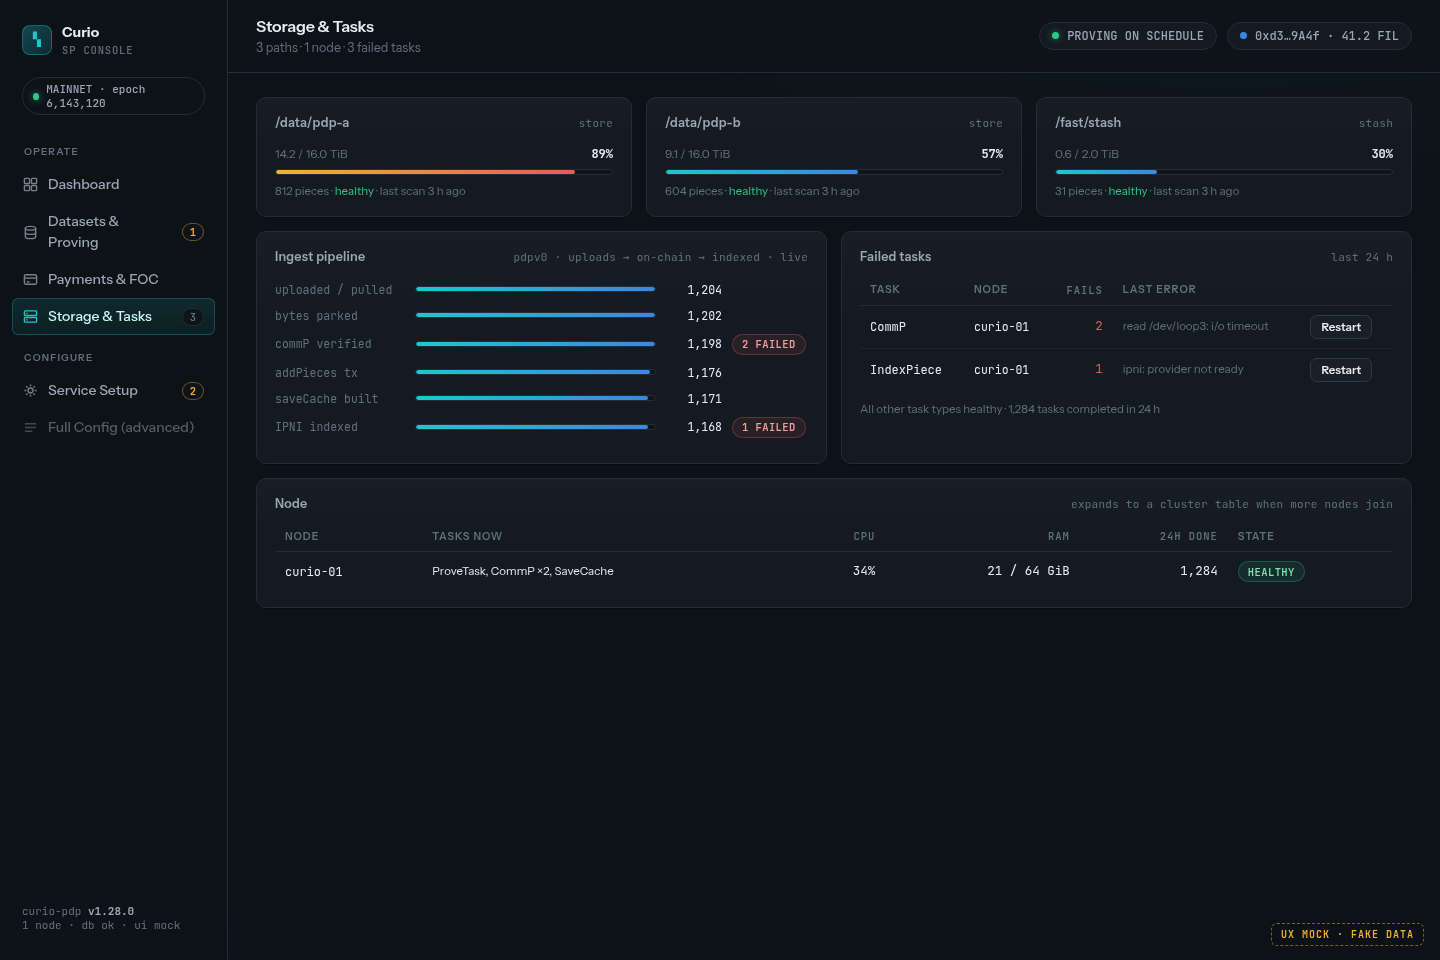
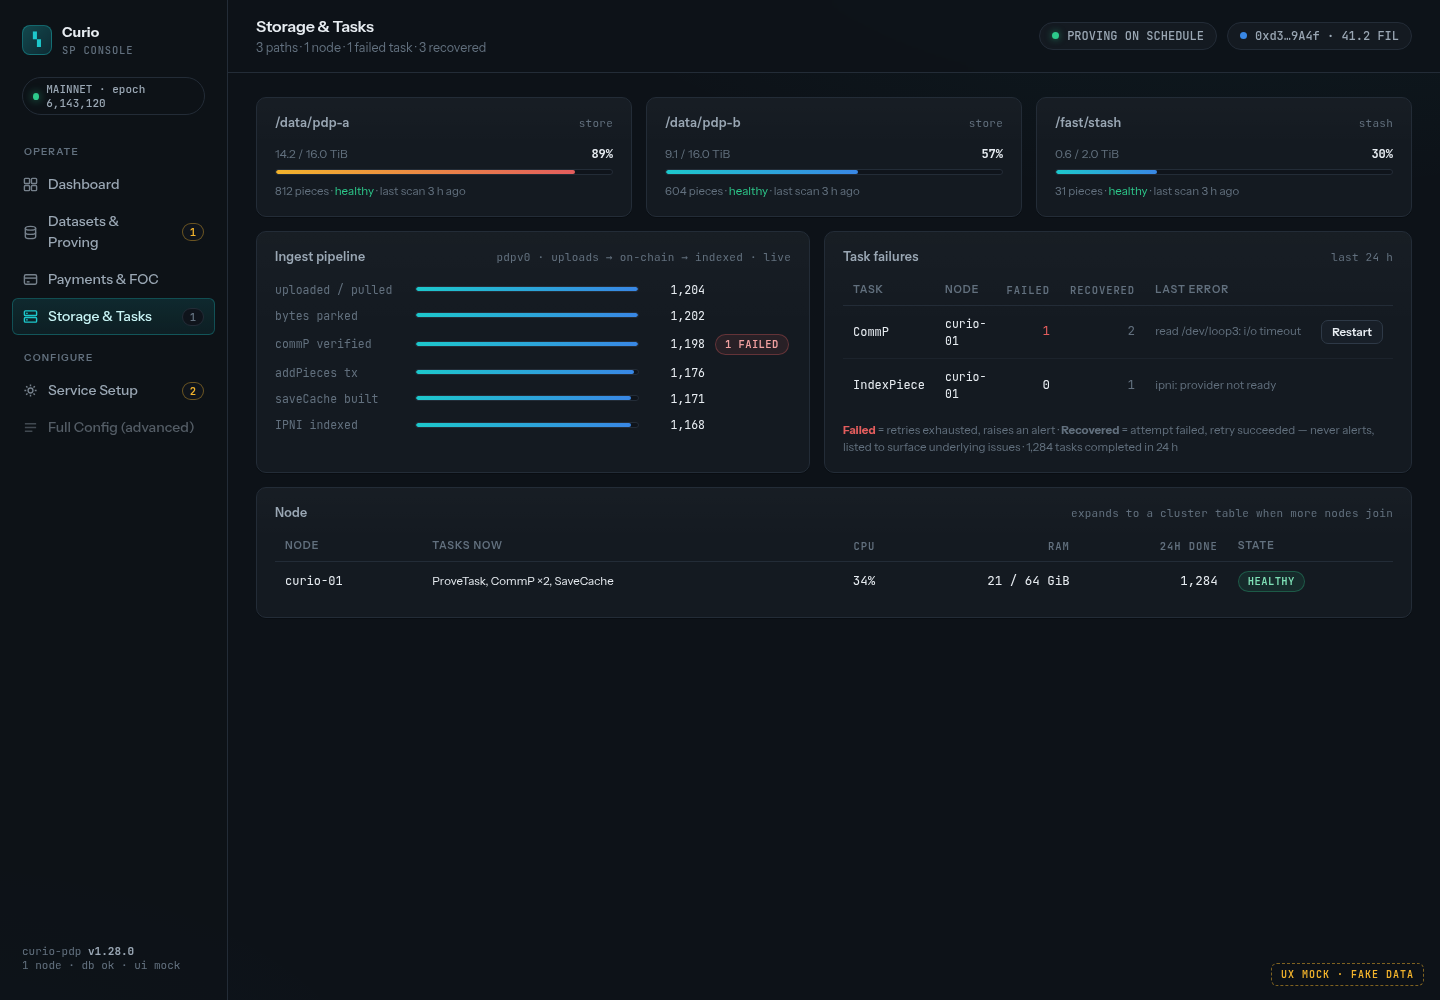
Open-issues list on dashboard + Failed/Recovered task split
Alerts follow the upstream alert lifecycle (alert_conditions /
alert_history.kind): the dashboard lists final failures and active
conditions only, with mutes; attempts that recover on retry move to
a Recovered column on Storage & Tasks.

diff --git a/mock/index.html b/mock/index.html
@@ -274,7 +274,7 @@ code.k{background:var(--inset); border:1px solid var(--line); border-radius:4px;
         Payments &amp; FOC</a>
       <a href="#/storage" data-page="storage">
         <svg viewBox="0 0 16 16" fill="none" stroke="currentColor" stroke-width="1.5"><rect x="1.5" y="2" width="13" height="5" rx="1"/><rect x="1.5" y="9" width="13" height="5" rx="1"/><circle cx="4.2" cy="4.5" r=".9" fill="currentColor" stroke="none"/><circle cx="4.2" cy="11.5" r=".9" fill="currentColor" stroke="none"/></svg>
-        Storage &amp; Tasks <span class="cnt">3</span></a>
+        Storage &amp; Tasks <span class="cnt">1</span></a>
     </nav>
 
     <div class="ngroup">Configure</div>
@@ -304,9 +304,9 @@ code.k{background:var(--inset); border:1px solid var(--line); border-radius:4px;
 
     <!-- ================= DASHBOARD ================= -->
     <section class="page" id="pg-dashboard">
-      <div class="banner" id="okbanner">
+      <div class="banner warn" id="okbanner">
         <span class="dot"></span>
-        <div><b>All systems operational.</b> <span>18 datasets proven this period · 0 faults in 7 days · next challenge window in 2 h 14 m.</span></div>
+        <div><b>3 open issues.</b> <span>18 datasets proven this period · 0 faults in 7 days · when the list is empty this banner reads "All clear".</span></div>
         <span class="act mut sm mono">updated 12 s ago</span>
       </div>
 
@@ -332,15 +332,16 @@ code.k{background:var(--inset); border:1px solid var(--line); border-radius:4px;
 
       <div class="grid cols-3" style="margin-top:14px">
         <div class="card span-2">
-          <h3>Needs attention <span class="hint">3 items</span></h3>
+          <h3>Open issues <span class="hint">active conditions + unresolved events · final failures only</span></h3>
           <div class="att" style="margin-top:8px">
             <div class="row"><span class="sev" style="background:var(--warn)"></span>
-              <div><b>3 challenge windows open within 6 h (#31 first, in 2 h 14 m)</b><p>prove_at_epoch 6,143,388 · window 60 epochs · ProveTasks scheduled per dataset</p></div><span class="when">epoch 6,143,388</span></div>
+              <div><b>3 challenge windows open within 6 h (#31 first, in 2 h 14 m)</b><p><span class="mono">pdp · proving</span> · condition · active 41 m · seen ×3 · <a href="#/datasets">datasets →</a></p></div><span class="when"><button class="btn sm">Mute</button></span></div>
             <div class="row"><span class="sev" style="background:var(--warn)"></span>
-              <div><b>PDP wallet gas runway ~19 days</b><p>0xd3…9A4f holds 41.2 FIL · burning ~2.1 FIL/mo at current proof + settlement cadence</p></div><span class="when">balance watch</span></div>
+              <div><b>PDP wallet gas runway ~19 days</b><p><span class="mono">wallet · balance</span> · condition · active 3 d · seen ×72 · 0xd3…9A4f holds 41.2 FIL</p></div><span class="when"><button class="btn sm">Mute</button></span></div>
             <div class="row"><span class="sev" style="background:var(--bad)"></span>
-              <div><b>2 pipeline tasks failed: CommP on node curio-01</b><p>piece bafk…q2ci from client 0x91…77E3 · retried 1/5 · <a href="#/storage">restart from Storage &amp; Tasks →</a></p></div><span class="when">18 m ago</span></div>
+              <div><b>Task failed: CommP on curio-01, retries exhausted</b><p><span class="mono">harmony · task</span> · event · 18 m ago · piece bafk…q2ci · <a href="#/storage">restart from Storage &amp; Tasks →</a></p></div><span class="when"><button class="btn sm">Mute</button></span></div>
           </div>
+          <div class="sm mut" style="margin-top:10px">Attempts that later succeed on retry never appear here — see <a href="#/storage">Storage &amp; Tasks</a> for recovered attempts · resolved issues move to history</div>
         </div>
         <div class="card">
           <h3>Latency <span class="hint">own measurements · p50 · 7 d</span></h3>
@@ -477,17 +478,17 @@ code.k{background:var(--inset); border:1px solid var(--line); border-radius:4px;
           <div id="funnel" style="margin-top:14px"></div>
         </div>
         <div class="card">
-          <h3>Failed tasks <span class="hint">last 24 h</span></h3>
+          <h3>Task failures <span class="hint">last 24 h</span></h3>
           <div style="overflow-x:auto; margin-top:8px">
           <table>
-            <thead><tr><th>Task</th><th>Node</th><th class="num">Fails</th><th>Last error</th><th></th></tr></thead>
+            <thead><tr><th>Task</th><th>Node</th><th class="num">Failed</th><th class="num">Recovered</th><th>Last error</th><th></th></tr></thead>
             <tbody>
-              <tr><td class="mono">CommP</td><td class="mono sm">curio-01</td><td class="num" style="color:var(--bad)">2</td><td class="sm mut" style="max-width:220px; overflow:hidden; text-overflow:ellipsis; white-space:nowrap">read /dev/loop3: i/o timeout</td><td><button class="btn sm">Restart</button></td></tr>
-              <tr><td class="mono">IndexPiece</td><td class="mono sm">curio-01</td><td class="num" style="color:var(--bad)">1</td><td class="sm mut" style="max-width:220px; overflow:hidden; text-overflow:ellipsis; white-space:nowrap">ipni: provider not ready</td><td><button class="btn sm">Restart</button></td></tr>
+              <tr><td class="mono">CommP</td><td class="mono sm">curio-01</td><td class="num" style="color:var(--bad)">1</td><td class="num mut">2</td><td class="sm mut" style="max-width:180px; overflow:hidden; text-overflow:ellipsis; white-space:nowrap">read /dev/loop3: i/o timeout</td><td><button class="btn sm">Restart</button></td></tr>
+              <tr><td class="mono">IndexPiece</td><td class="mono sm">curio-01</td><td class="num">0</td><td class="num mut">1</td><td class="sm mut" style="max-width:180px; overflow:hidden; text-overflow:ellipsis; white-space:nowrap">ipni: provider not ready</td><td></td></tr>
             </tbody>
           </table>
           </div>
-          <div class="sm mut" style="margin-top:10px">All other task types healthy · 1,284 tasks completed in 24 h</div>
+          <div class="sm mut" style="margin-top:10px"><b style="color:var(--bad)">Failed</b> = retries exhausted, raises an alert · <b>Recovered</b> = attempt failed, retry succeeded — never alerts, listed to surface underlying issues · 1,284 tasks completed in 24 h</div>
         </div>
       </div>
 
@@ -613,8 +614,8 @@ const PATHS = [
   {name:'/fast/stash', type:'stash',  used:0.6,  cap:2.0,  pieces:31,  ok:true},
 ];
 const FUNNEL = [
-  {label:'uploaded / pulled', n:1204, bad:0}, {label:'bytes parked', n:1202, bad:0}, {label:'commP verified', n:1198, bad:2},
-  {label:'addPieces tx', n:1176, bad:0}, {label:'saveCache built', n:1171, bad:0}, {label:'IPNI indexed', n:1168, bad:1},
+  {label:'uploaded / pulled', n:1204, bad:0}, {label:'bytes parked', n:1202, bad:0}, {label:'commP verified', n:1198, bad:1},
+  {label:'addPieces tx', n:1176, bad:0}, {label:'saveCache built', n:1171, bad:0}, {label:'IPNI indexed', n:1168, bad:0},
 ];
 
 /* ============================================================
@@ -852,7 +853,7 @@ const TITLES = {
   dashboard:['Dashboard','Provider #14 · pdpsp.example.com'],
   datasets:['Datasets & Proving','18 active · 24.6 TiB under proof'],
   payments:['Payments & FOC participation','5 active rails · registry: provider #14'],
-  storage:['Storage & Tasks','3 paths · 1 node · 3 failed tasks'],
+  storage:['Storage & Tasks','3 paths · 1 node · 1 failed task · 3 recovered'],
   setup:['Service Setup','6 of 8 steps complete'],
 };
 let rendered = {};

diff --git a/TASKS.md b/TASKS.md
@@ -31,9 +31,11 @@ One action only in this milestone: **Settle now**, which kicks the existing `tas
 Depends on M0; independent of M1/M2.
 
 ## M4 — Business dashboard
-The health banner and the income / gas / proving KPIs and charts.
+The health banner, the open-issues list, and the income / gas / proving KPIs and charts.
 
-Needs M2 (proving numbers) and M3 (settlement reads). Probably wants a small daily rollup rather than scanning tx receipts on every page load — the engineer taking this decides.
+The open-issues list reads the alert lifecycle merged upstream on 2026-07-03: active conditions from `alert_conditions`, unresolved one-shot events from `alert_history` (`kind='event'`), with the existing mute mechanism. It shows final failures and active conditions only — attempts that recover on retry never appear (they live in M6's task table instead). Needs one read webrpc over those tables; the banner collapses to "All clear" when the list is empty.
+
+KPIs and charts need M2 (proving numbers) and M3 (settlement reads). Probably wants a small daily rollup rather than scanning tx receipts on every page load — the engineer taking this decides.
 
 ## M5 — Service Setup
 The auto-detected getting-started checklist plus endpoint/products cards.
@@ -43,7 +45,9 @@ Most checks read existing state: chain connection, `eth_keys role='pdp'`, storag
 Depends on M0.
 
 ## M6 — Storage & Tasks
-Paths, failed tasks, and node views re-composed in console style, plus the pdpv0 ingest funnel (`pdp_piece_uploads` / `pdp_piece_pulls` → `parked_pieces` → `pdp_piecerefs` → `pdp_data_set_piece_adds` → save-cache → IPNI), with per-stage failure counts.
+Paths, task failures, and node views re-composed in console style, plus the pdpv0 ingest funnel (`pdp_piece_uploads` / `pdp_piece_pulls` → `parked_pieces` → `pdp_piecerefs` → `pdp_data_set_piece_adds` → save-cache → IPNI), with per-stage failure counts.
+
+The task table splits **Failed** (retries exhausted — alerts) from **Recovered** (attempt failed, retry succeeded — no alert, but repeated recoveries point at an underlying issue). `harmony_task_history` already keeps one row per attempt with `task_id` and `result`, so this is a query change, not new collection.
 
 Depends on M0.
 

diff --git a/PRD.md b/PRD.md
@@ -17,7 +17,7 @@ Inside Curio, a console with the Stripe-dashboard / Linear feel #1320 asks for: 
 
 | Page | Platform-PRD area | The question it answers |
 |---|---|---|
-| **Dashboard** | Business dashboard | "Is my business OK right now?" — health banner, income vs gas, proving success, needs-attention |
+| **Dashboard** | Business dashboard | "Is my business OK right now?" — health banner, income vs gas, proving success, open issues |
 | **Datasets & Proving** | + operator proving visibility | "Will I prove on time? What am I storing for whom?" — challenge-window timeline, deadline countdowns, faults, piece drill-down |
 | **Payments & FOC** | FOC participation | "Am I getting paid? Am I registered correctly?" — registry status, balances, rails, settlements, settle-now |
 | **Storage & Tasks** | Storage mgmt & monitoring | "Is the machine healthy?" — paths, pdpv0 ingest funnel, failed tasks + restart |
@@ -35,6 +35,7 @@ Cross-cutting: a health chip on every page ("PROVING ON SCHEDULE" / degraded), a
 6. **pdpv0 is the source of truth.** All queries target the pdpv0 tables (`pdp_data_sets`, `pdp_data_set_pieces`, `pdp_piece_uploads`, …). The mk20 path (`pdp_pipeline`) is a different product path current SPs don't use — union later if needed.
 7. **Vocabulary aligned with the platform PRD.** Same protocol→product mapping, mirrored to the supply side (below). Product words in the UI; raw rails/epochs one click deeper.
 8. **Ship in slices.** Every milestone is independently useful to a live SP; feedback between slices.
+9. **Alerts are loud, but only for real problems.** The dashboard's open-issues list shows final failures and active conditions only — a task attempt that later succeeds on retry never appears there. This is exactly the semantics of the alert lifecycle merged upstream on 2026-07-03 (`alert_conditions` for active conditions; `alert_history.kind = event|condition` for one-shots and resolved history; per-alert mutes) — the console reads it, it doesn't reinvent it. Recovered attempts stay visible one level down, on Storage & Tasks, for whoever wants to chase an underlying cause. (Decided 2026-07-07.)
 
 ## Vocabulary — protocol → SP product
 
@@ -91,7 +92,7 @@ Legend: ✅ = RPC/data exists today · 🔶 = derivable from existing tables, ne
 | Proofs vs faults weekly chart | `pdp_proving_history` | 🔴 |
 | Earnings vs gas daily chart | same sources as KPIs | 🔴 |
 | Latency (three durations) | **Own data only:** `/piece` and `/ipfs` request→last-byte histograms in our handlers, plus addPieces tx confirmation time (task start → receipt). Shown as two mini-charts (serve in ms; addPieces in s — different scales, never one axis). Client-perceived network latency stays external (dealbot), out of scope. | 🔴 (phase 2) |
-| Needs-attention list | alerts framework + upcoming `prove_at_epoch` + failed tasks + wallet runway | 🔶 |
+| Open-issues list | `alert_conditions` (active conditions: system/subsystem, message, `created_at`, `repeat_count`) + unresolved `alert_history` rows with `kind='event'`, plus the existing mute mechanism. Final failures and active conditions only — retried-and-recovered attempts are excluded by the alert lifecycle itself (core decision 9). Empty list ⇒ the banner reads "All clear". Rows deep-link to the page that owns the problem. | 🔶 read RPC over the alert-lifecycle tables |
 
 ## A§2 Datasets & Proving
 
@@ -120,6 +121,8 @@ Legend: ✅ = RPC/data exists today · 🔶 = derivable from existing tables, ne
 ## A§4 Storage & Tasks
 
 Storage paths, tasks, nodes are **rearrangement of existing components**: `StoragePathList`/`StoragePathsSummary`, `HarmonyTaskStats`/`ClusterMachines`, restart actions. ✅ with light re-skinning.
+
+The **task-failures table splits two outcomes** that today read as one number: **Failed** (retries exhausted — this is what raises an alert) vs **Recovered** (an attempt failed, a retry succeeded — never alerts, but listed here because repeated recoveries point at an underlying issue). Both are derivable from `harmony_task_history`, which keeps one row per attempt with `task_id` and `result`: recovered = a false row followed by a true row for the same task id; failed = last row false and the task gone from `harmony_task`. 🔶 one query change to the existing task-summary RPC.
 
 The **ingest pipeline funnel** is new and must be built from the **pdpv0 tables** (NOT `MK20PDPPipelines` — that reads the mk20 `pdp_pipeline`, a different product path unused by current pdpv0 SPs): uploaded/pulled (`pdp_piece_uploads` / `pdp_piece_pulls`) → bytes parked (`parked_pieces`) → commP verified (`pdp_piecerefs`) → addPieces tx confirmed (`pdp_data_set_piece_adds`) → saveCache built → IPNI indexed. Per-stage counts + failure badges (joined against `harmony_task`). 🔶 new `PDPv0Pipeline` RPC. Node view renders as a single compact row for the common single-node PDP deployment and expands to the cluster table only when >1 machine is registered.
 